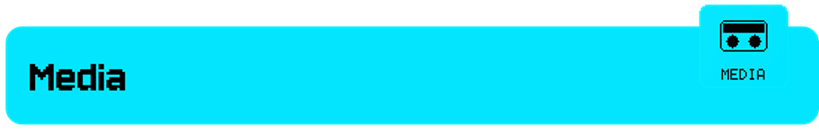
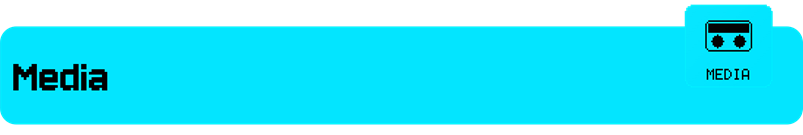
readme

Changed region(s): [[0.0, 0.1778, 0.1557, 0.9185], [0.8406, 0.0889, 0.9651, 0.3852], [0.8717, 0.5037, 0.934, 0.5926]]

diff --git a/readme.md b/readme.md
@@ -1,20 +1,108 @@
 # Desktop Pet V0.1
 
+![T](.github/Cat/T.png)
 
 
+![overview](.github/Cat/!OV.png)
+
+![d](.github/desktop.png)
+
+- A simple desktop pet that makes your desk more intreasting  :D
+
+![APS](.github/Cat/!APS.png)
+
+You can have a demo at the desktop pet's firmware [(Here)](https://adium1000.github.io/Desktop-Pet/)
+
+![Media Controller](.github/Cat/media.png)
+- This is a Media Controller app for your device that supplyes power to the Desktop Pet
+- Tap the touch sensor to navigate and hold to execute the selected action
+- It uses Adafruit Tiny USB to do that
+
+![media](.github/APS/media.png)
+
+![Pong](.github/Cat/pong.png)
+
+- Pong is an game for your Desktop Pet
+- To play just tap on the touch sensor to move the paddle
+- When you lose (ai scores) you can long press to exit or tap to play again
+
+![pong_game](.github/APS/pong.png)![pong_lose](.github/APS/pong_lost.png)
+
+![alt text](.github/Cat/x&0.png)
+
+- X&0 is also a game for your Desktop Pet
+- To play you have to tap on the touch sensor and hold where you want to place x (you always play as x)
+- You can exit by holding on the touch sensor one the match is finnished and tap to play again
+
+![x&0](.github/APS/x&0.png)
+
+![alt text](.github/Cat/timer.png)
+
+- Timer is a small app that can count time when you start it
+- To start the timer tap on the touch sensor, and to stop tap again
+- To exit, stop the timer and hold the touch sersor, if you hold while timer is going you will reset the timer
+
+![timer](.github/APS/timer.png)
+
+![alt text](.github/Cat/sensors.png)
+
+- Sesors app lets you acces the BM180 Sensor's data like temperature and atmosferic presure
+- Hold the touch sensor to exit
+
+![sensors](.github/APS/sensors.png)
+
+![SS](.github/Cat/ss.png)
+- Screensavers are a way to bring more fun to the pet, here you can pick from a large library of them and play them!
+- While on screensver tap the touch sensor to exit or hold to exit to the screensaver library
+
+![ss](.github/APS/screensaver.png)
+
+![settings](.github/Cat/settings.png)
+- The settings app lets you turn off the buzzer or turn on automatic switch which will cycle between FACE-TEMP-AP
+- Go to the exit button and hold the touch to exit
+
+![Settings](.github/APS/settings.png)
+
+![off](.github/Cat/off.png)
+
+- When oppened from launcher it turns off the oled
+- Tap the touch sensor to turn oled back on
+
+![off](.github/APS/off.png)
 
 
+![CAD](.github/Cat/!CAD.png)
+
+- Here you will find all relevant stuff about this project and how it was made
+
+![Schematics](.github/Cat/!SC.png)
+
+- The schematics for this project were made in Fritzing 
+
+![schematics](CAD/Schematics/Schematics.png)
+
+This project uses an 0.9 Inch OLED with a WS RP2040 Microcontroller, a buzzer, a touch sensor and a BM180 sensor
+
+![Firmware](.github/Cat/!FR.png)
+
+- The firmware for this desktop pet is located in `CAD/Firmware` and it is ment for RP2040 Microcontrollers 
+
+![CASE](.github/Cat/!CA.png)
+
+- The case was originaly created by Thingiverse user visakhmv, and is licensed under Creative Commons - Attribution - Share Alike, remixed by Adium1000
+- All components are installed in the case using hot glue
 
 
+![case](CAD/Case/3d.png)
 
+![BOM](.github/Cat/BOM.png)
 
-
-# Appa and features
-
-## Media player
-![alt text](.github/Cat/media.png)
-
-
-
-![media](.github/APS_Icons/media.png)
-![alt text](.github/APS/media.png)
+| # | Component | Price | Note |
+|---|---|---|---|
+| 1 | Waveshare RP2040-Zero | ~$4.80 | LCSC/AliExpress |
+| 2 | Passive Buzzer Module | ~$0.50 |  AliExpress |
+| 3 | BMP180 Sensor Module (GY-68) | ~$0.60 | AliExpress |
+| 4 | Touch Sensor (TTP223B) | ~$0.40 | AliExpress |
+| 5 | Fire (Dupont wires, set) | ~$1.00 | M-M or M-F |
+| 6 | ~19g filament PLA | ~$0.48 | ~$0.025/g × 19g |
+| | **TOTAL** | **~$7.78** | |